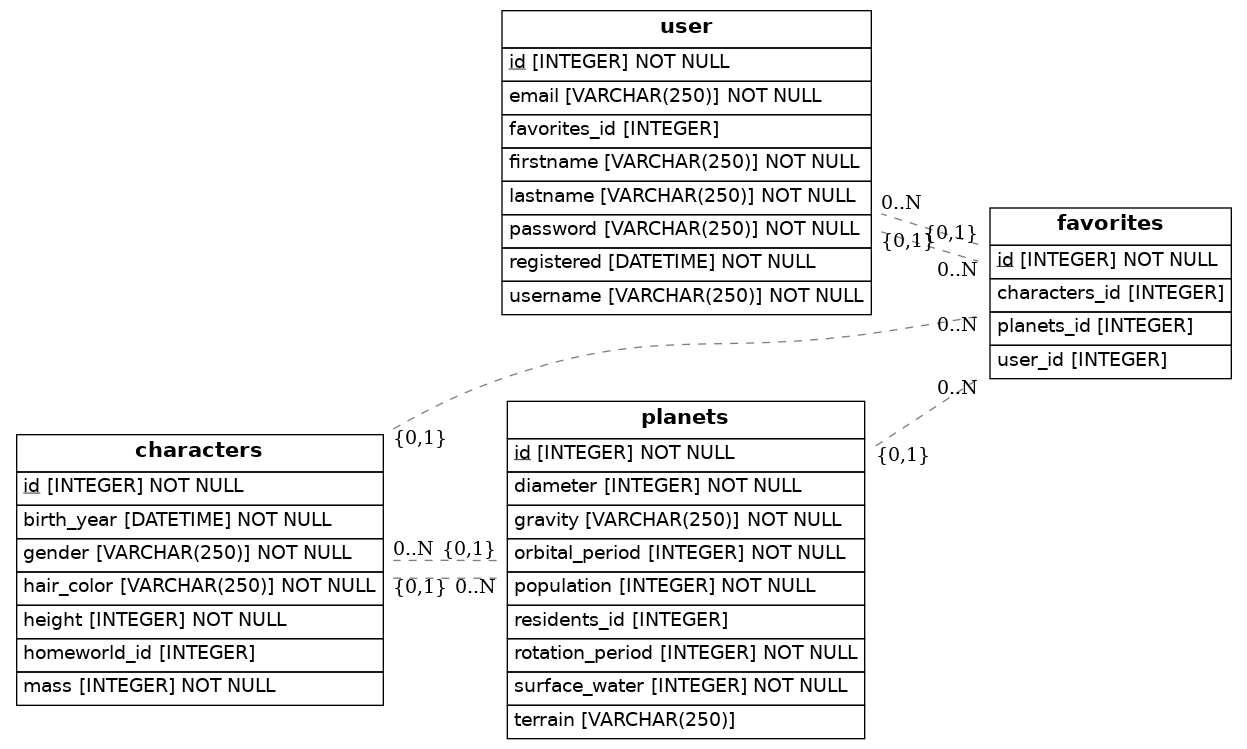
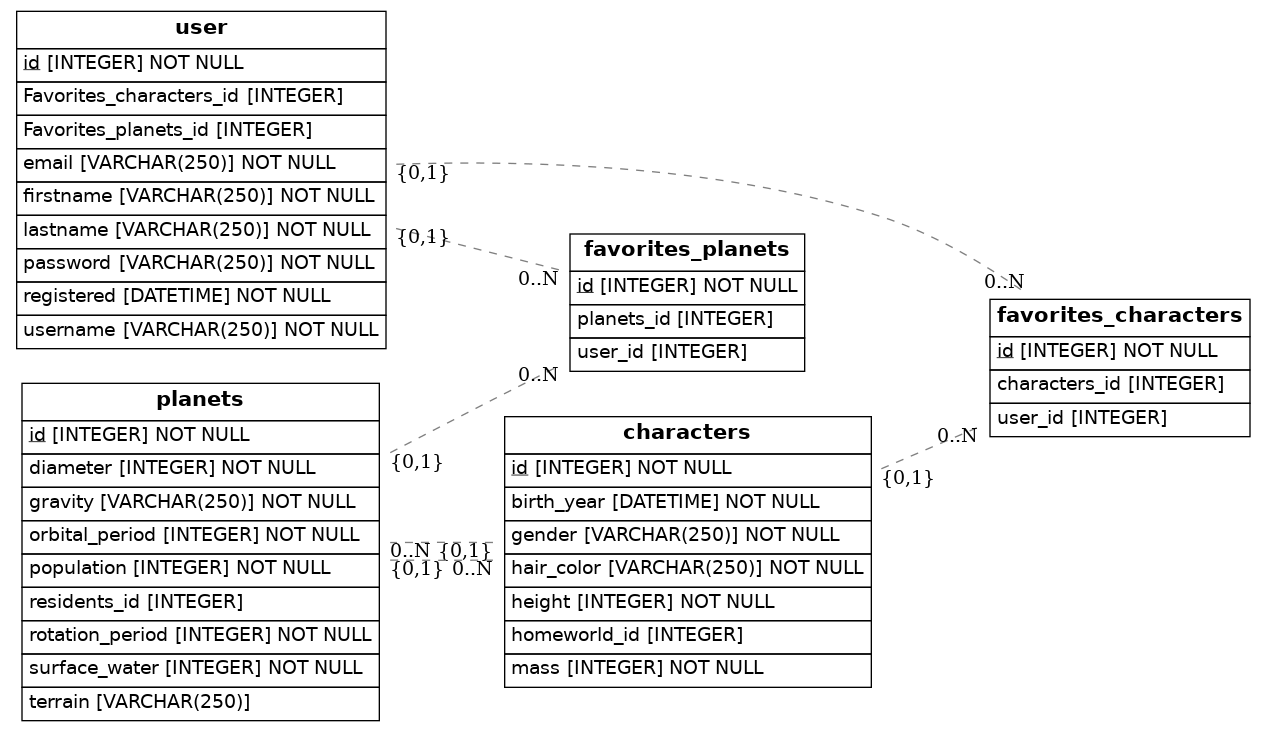
acabado

diff --git a/src/models.py b/src/models.py
@@ -19,8 +19,10 @@ class User(Base):
     email = Column(String(250), nullable=False)
     password = Column(String(250), nullable=False)
     registered = Column(DateTime, nullable=False)
-    favorites_id = Column(Integer, ForeignKey('favorites.id'))
-    favorites = relationship('Favorites')
+    Favorites_planets_id = Column(Integer, ForeignKey('favorites.id'))
+    Favorites_planets = relationship('Favorites')
+    Favorites_characters_id = Column(Integer, ForeignKey('favorites.id'))
+    Favorites_characters = relationship('Favorites')
 
 class Characters(Base):
     __tablename__ = 'characters'
@@ -54,18 +56,25 @@ class Planets(Base):
 
     
 
-class Favorites(Base):
-    __tablename__ = 'favorites'
+class Favorites_planets(Base):
+    __tablename__ = 'favorites_planets'
     # Here we define columns for the table address.
     # Notice that each column is also a normal Python instance attribute.
     id = Column(Integer, primary_key=True)
-    characters_id = Column(Integer, ForeignKey('characters.id'))
-    characters = relationship(Characters)
     planets_id = Column(Integer, ForeignKey('planets.id'))
     planets = relationship(Planets)
     user_id = Column(Integer, ForeignKey('user.id'))
     user = relationship(User)
     
+class Favorites_characters(Base):
+    __tablename__ = 'favorites_characters'
+    # Here we define columns for the table address.
+    # Notice that each column is also a normal Python instance attribute.
+    id = Column(Integer, primary_key=True)
+    characters_id = Column(Integer, ForeignKey('characters.id'))
+    characters = relationship(Characters)
+    user_id = Column(Integer, ForeignKey('user.id'))
+    user = relationship(User)    
 
     
 
